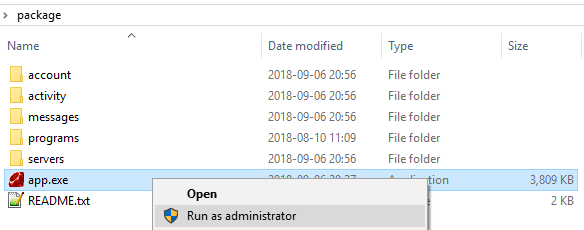
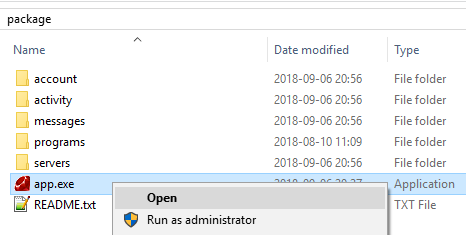
Does not actually need admin privledges to run

diff --git a/README.md b/README.md
@@ -25,7 +25,7 @@ To run the application:
 ```
 ruby app.rb --data-path=[PATH_TO_BACK_UP]
 ```
-#### Arguments
+#### Arguments:
 ```
 --datapath=[PATH]               #specifies the directory of the backup, defaults to current working directory ./
 --word-min-length=[LENGTH]      #specifies a minimum length of commonly used word data

diff --git a/how_to_run_exe.md b/how_to_run_exe.md
@@ -21,7 +21,7 @@ You should now have the `package.zip` and the `*.exe`
 ![Moving *.exe](examples/move_app.png)  
 Note: The name of the folder doesn't actually matter.
 
-### 6. Run the `*.exe` as administrator.  
+### 6. Run the `*.exe`.  
 ![Running App](examples/run_app.png)
 
 
